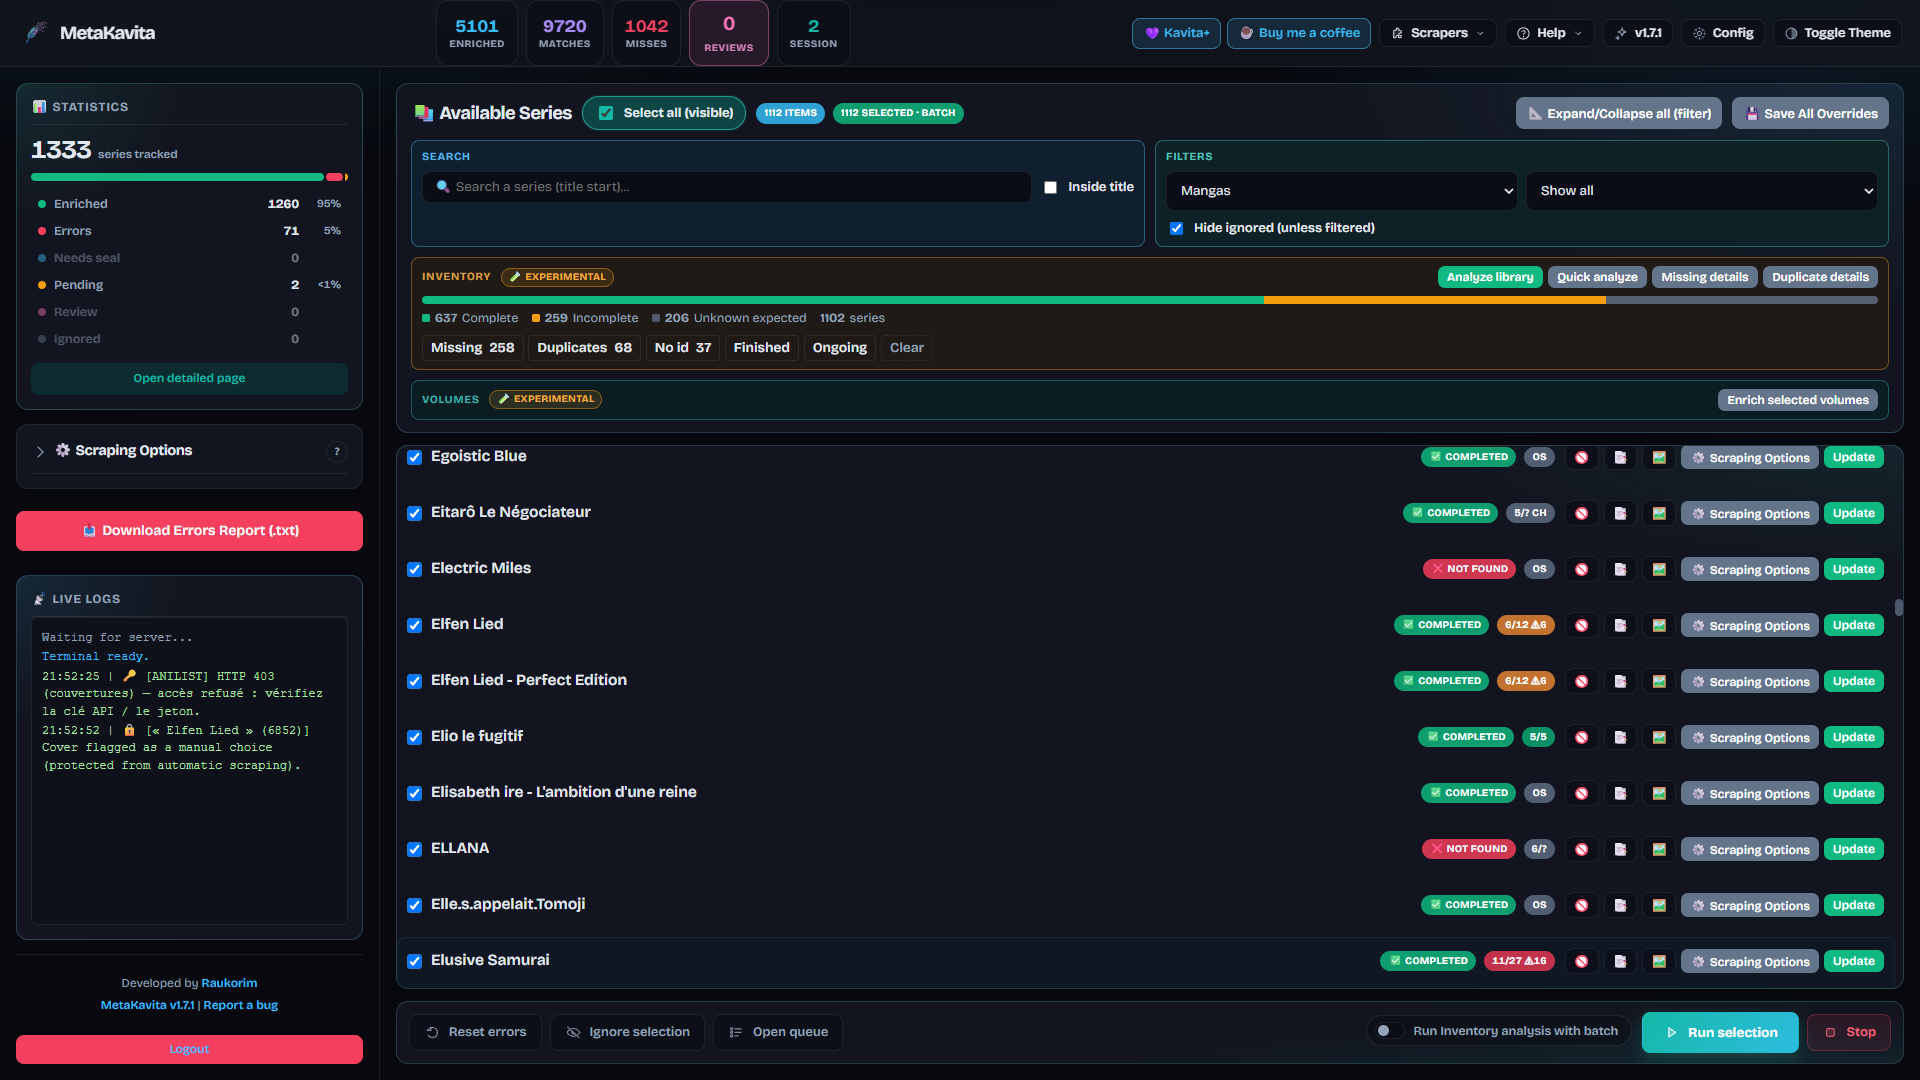
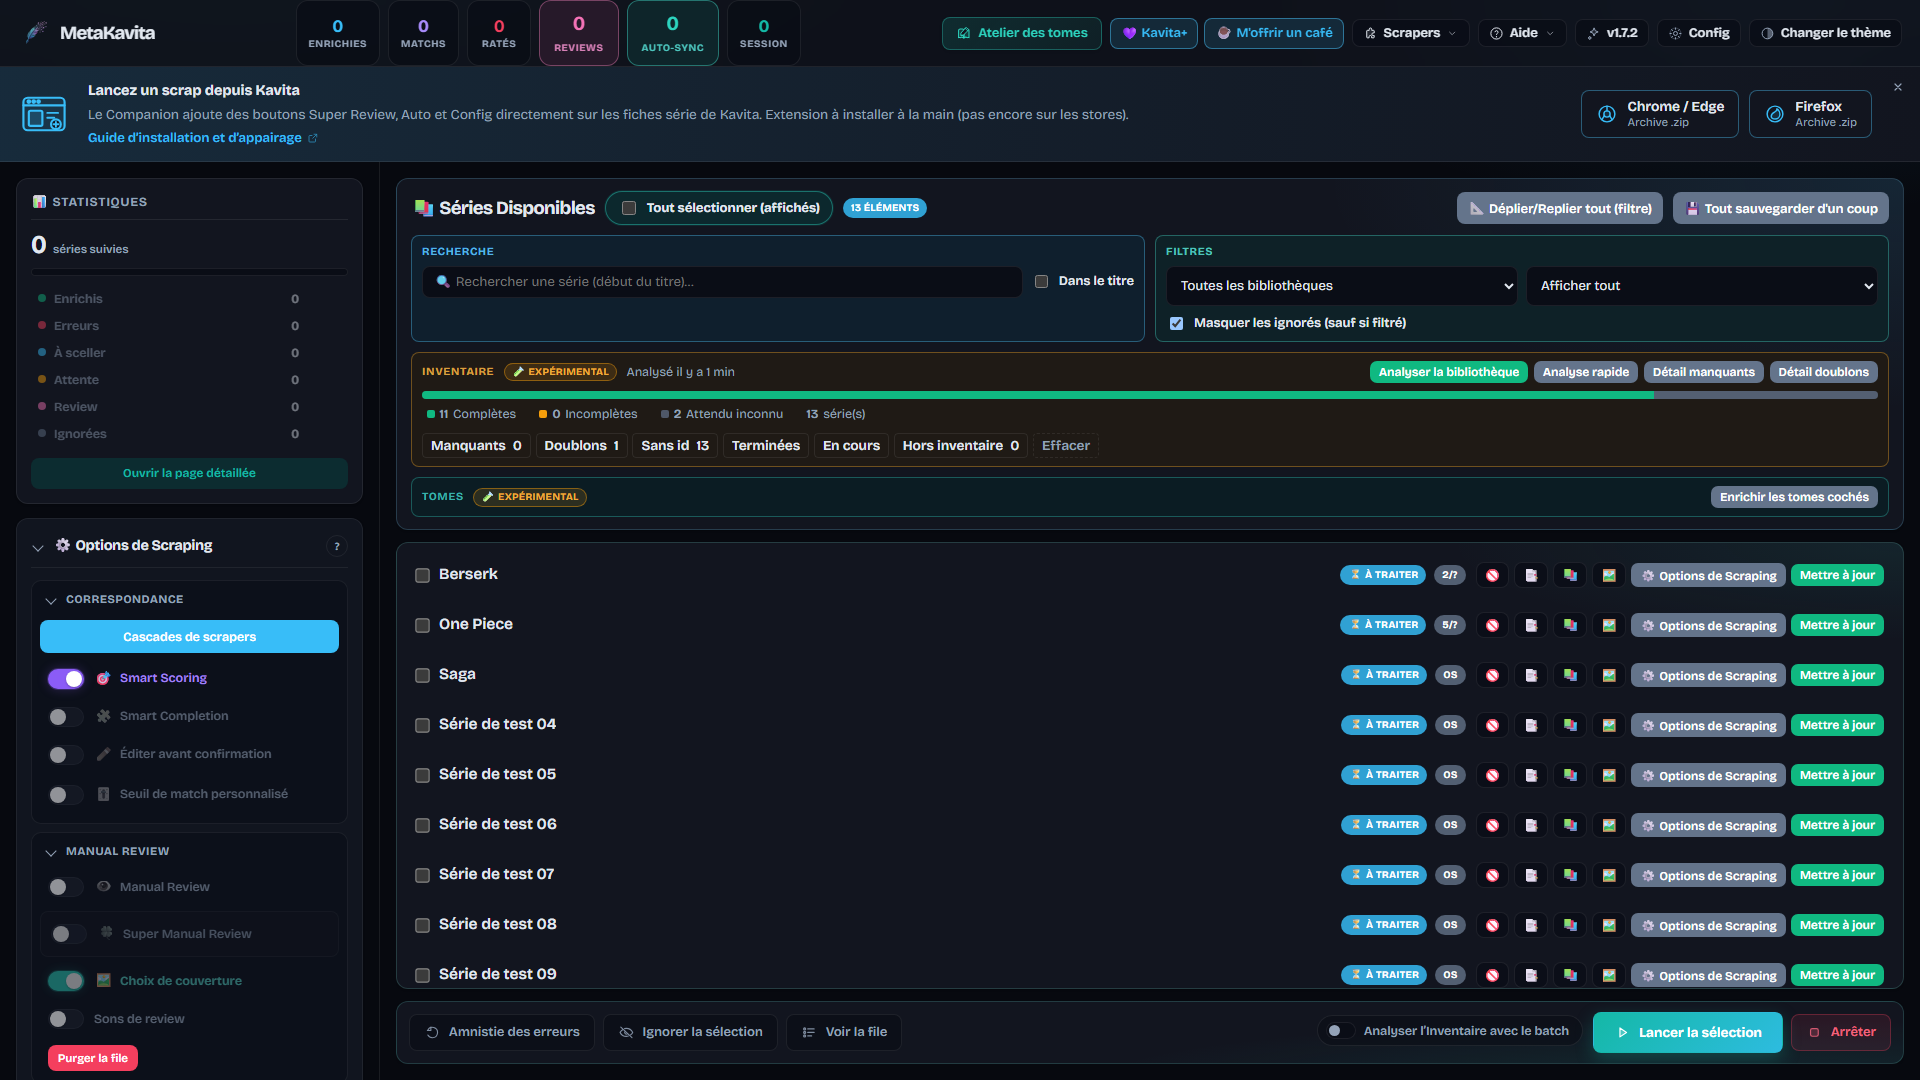
docs: captures d'écran 1.7.2 — Atelier, Inventaire, tableau de bord
Prises sur le banc dev_local/workshop_harness (vraie MetaKavita, faux
Kavita, sans authentification) avec Edge headless piloté par DevTools.

Nouvelles : docs-workshop.png (page entière, One Piece),
docs-workshop-volume.png (carte de tome), docs-workshop-covers.png
(galerie Choisir), docs-inventory-health.png (bandeau Inventaire).
Remplacées : docs-dashboard.png (1.7.1 -> 1.7.2, bouton Atelier à côté
de Kavita+, barre de santé remplie), docs-toolbar-inventory.png,
docs-duplicates-modal.png (seuil, 🎯, Bash/PowerShell, scan à la fin).

Câblées dans docs/fr et docs/en (volumes.md, inventory.md), légendes
traduites, parité du nombre d'images, aucune référence cassée.
docs-stats.png et docs-missing-details.png conservées : le banc n'a
ni historique ni manquant, les captures existantes sont meilleures.

diff --git a/docs/fr/volumes.md b/docs/fr/volumes.md
@@ -16,6 +16,12 @@ Trois surfaces, qui ne se marchent pas dessus :
 * **Accès Atelier sur le Dashboard** — **Atelier** est dans la barre supérieure sticky, à côté du bouton Kavita+, avec son icône dédiée et son thème sarcelle, pour ouvrir `/volumes` à tout moment (le rail ou la dernière série consultée charge la fiche sans sélection préalable requise). Passe automatique disponible sur les séries cochées, annulable. Honore les liens magiques déjà posés dans l'atelier. Pas de Champ Magique dans la barre.
 * **Atelier** `GET /volumes` ou `GET /series/<id>/volumes` — page autonome (comme `/stats`). À l'ouverture : Kavita + Meta, **aucun scrape**. Interface moderne, compacte et haute densité d'information (hauteur de la fiche série divisée par deux, cartes de tomes allégées de plus de moitié permettant d'afficher 2 à 3 tomes simultanément). Formulaires et champs modernisés sur le modèle élégant de la Revue Manuelle et de « Ajuster avant envoi » (fond ardoise sombre `#141926`, coins arrondis à 8px, padding aéré, libellés en casse naturelle, fin du liseré jaune criard remplacé par une teinte ambrée très douce). Carte série (sarcelle) ≠ cartes tomes (orange). **Duplication série → tomes** : chaque champ compatible de la série dispose d'un micro-bouton `Vers tomes` permettant en 1 clic de propager sa valeur (scénario, dessin, staff, genres, tags, classification, résumé, langue) à tous les tomes chargés, avec marquage automatique en dirty et sauvegarde SQLite debouncée. Un bouton global **Dupliquer vers les tomes** dans la fiche série cascade l'ensemble des métadonnées communes renseignées d'un coup. Les cartes de tomes s'équipent de puces de statut modernes qui lisent l'état réellement enregistré du tome — Brouillon, Envoyé, En attente, Échec, Rien à écrire, Aucune donnée — dans la langue de l'interface. Les champs courts (année, statut, âge, staff) se mettent à trois par ligne. Le staff en trop se range sous **Plus de champs (x complétés / y)** (le volet est mémorisé, avec compteur dynamique en direct). Le **Champ Magique** est un bandeau compact libellé, visible tout de suite (la touche Entrée lance directement la recherche). Le titre de série ouvre la fiche Kavita. La barre d'action sticky des tomes flotte élégamment en dark glassmorphism (compte de sélection, boutons groupés, envoi principal en dégradé orange). `/` pose le focus sur la recherche du rail ; ← → se grisent en bout de liste ; les fiches du rail sont compactées à 48 px (+15% de séries visibles). La barre de navigation supérieure intègre un bouton permanent **M'offrir un café** (☕) avec toast immédiat et cooldown supporter. L'overlay nagware supporter peut également apparaître rarement après des écritures réussies dans Kavita (variante `workshop_craft`, sous conditions strictes : lune de miel de 7 jours, seuil d'activité minimum de 10 éléments traités, maximum 1 à 2 fois par jour, pause honneur de 30 jours). Le journal live est à droite. Les jaquettes ont un relief de livre 2:3 valorisé et moderne (136×204 px pour la série, 104×156 px pour les tomes) et un bouton **Choisir** ; les couvertures de série et de tomes s'intègrent harmonieusement aux côtés des en-têtes et champs hauts, tandis que les métadonnées inférieures (résumé, plus de champs, actions) s'étendent en pleine largeur directement sous elles pour éliminer tout vide résiduel. L'URL choisie part à l'envoi, pas via `/update-cover`. Édition sur place avec persistance automatique en brouillon pour la série et les tomes (debounced 500 ms, identifiants externes et modifications préservés en SQLite `_staged: True`, étanche face aux passes concurrentes, survit au rechargement F5 et à la navigation). Manual Review / Super Review (fiche ou tome) permettent d'ajuster les métadonnées (collecte multi-fournisseurs interrogeant l'ensemble des scrapers actifs pour ISBN et titre avec pré-sélection, navigation clavier dédiée avec Échap/Entrée/Flèches/chiffres 1–9/double-clic et miniatures de jaquettes, conservation du fournisseur d'origine, fusion de sources ou complétion manuelle par champ, prise en compte de l'ISBN saisi) en passant par les étapes de revue (choix, couverture, prévisualisation/édition) avant de stager la fiche à la confirmation ; elles n'écrivent **pas** Kavita. **Envoyer** un tome / la fiche / la sélection / tous les tomes est ce qui écrit, purgeant automatiquement les jaquettes stagées en cas de succès pour éviter leur résurrection au rechargement et invalidant les caches d'hygiène. Chaque écriture réussie émet une ligne de confirmation dans le journal en direct (avec puce de série, statut vert ✅, numéro de tome et détail des champs écrits). L'envoi **écrase** les champs déjà remplis, verrous compris (une valeur vide, nom localisé compris, n'est jamais écrite). Un envoi qui ne trouve rien à changer solde tout de même la carte : le marquage modifié tombe et le brouillon est consommé, puisque Kavita détient déjà ce que la carte promettait. Seule exception, un refus de Kavita (titre alternatif en collision, jaquette repoussée) : le brouillon est conservé et le motif affiché, pour que vous puissiez corriger et renvoyer. Reset = Meta + relecture Kavita, **pas** de rewind des écritures déjà dans Kavita. Le Reset attend son tour si une passe de fond écrit justement cette série. Reset d'un tome débloque aussi la reprise de la passe automatique pour cette série. Le rail reprend la recherche, la bibliothèque, le statut et « masquer les ignorés » du tableau de bord. Un clic charge la série à côté, sans recharger la page. Les jaquettes déjà dans Kavita sont gardées sur disque.
 
+![L'Atelier — la fiche de série et les tomes de One Piece, le journal à droite](../../assets/docs-workshop.png)
+
+![Une carte de tome : Champ Magique, titre, ISBN, parution, résumé, et Plus de champs avec son compteur](../../assets/docs-workshop-volume.png)
+
+![Choisir une jaquette : les couvertures trouvées sur les différents sites](../../assets/docs-workshop-covers.png)
+
 ![Rapport de tomes](../../assets/docs-volume-report.png)
 
 Écrits : **titre d'album, résumé, date de parution, ISBN et couverture**, uniquement dans les champs vides sauf Force. Un champ rempli à la main, ou verrouillé dans Kavita, n'est pas touché.

diff --git a/docs/en/volumes.md b/docs/en/volumes.md
@@ -16,6 +16,12 @@ Three surfaces, kept apart:
 * **Workshop Access on Dashboard** — **Workshop** sits in the sticky topbar, next to the Kavita+ button, with its dedicated craft icon and teal theme, opening `/volumes` at any time (the rail or last-visited series loads the sheet without requiring a prior dashboard selection). Automatic pass available on ticked series, cancellable. Honours magic links already stored in the workshop. No Magic Input in the toolbar.
 * **Workshop** `GET /volumes` or `GET /series/<id>/volumes` — a standalone page (like `/stats`). On open: Kavita + Meta, **no scrape**. Modern, compact, high-density interface (series card height halved, volume cards slimmed by more than half, displaying 2 to 3 volume cards simultaneously without endless scrolling). Modernized form fields inspired by the sleek Manual Review and “Adjust before send” screens (modern dark slate `#141926` background, 8px rounded corners, generous padding, natural sentence-case labels, eliminating loud yellow borders in favor of a soft subtle tint). Series card (teal) ≠ volume cards (orange). **Series-to-volumes duplication**: every compatible series field features a 1-click `To volumes` micro-button cascading its value (writers, pencillers, staff, genres, tags, age rating, summary, language, links) across all loaded volume cards, automatically marking them dirty and scheduling SQLite draft persistence. A global **Duplicate to volumes** button in the series card actions cascades all filled common metadata at once. Volume cards gain modern status chips that read the volume's real recorded state — Draft, Sent, Pending, Failed, Nothing to write, No data — in your interface language. Short fields (year, status, age, staff) sit three to a row. Extra staff sit behind **More fields (x filled / y)** (the fold is remembered, with a real-time completion counter). **Magic Input** is a compact labelled bar, visible at a glance (pressing Enter triggers the search directly). The series title opens the Kavita sheet. The sticky volume action bar floats cleanly in dark glassmorphism (selected count, grouped buttons, gradient orange primary send). `/` focuses the rail search; ← → grey out at the ends of the list; rail items are compacted to 48 px (+15% vertical capacity). The top navigation bar includes a permanent **Buy me a coffee** button (☕) with instant feedback and supporter cooldown. The supporter nagware overlay can also appear rarely after successful writes to Kavita (`workshop_craft` variant, under strict safeguards: 7-day honeymoon, at least 10 items processed activity threshold, max 1–2 times per day, 30-day honor snooze). The live log sits on the right. Covers sit as a prominent 2:3 book (136×204 px series, 104×156 px volumes) with a **Pick** overlay button; series and volume covers integrate seamlessly beside headers and top fields while lower metadata (summary, more fields, actions) flows full-width beneath them to eliminate any dead space. The chosen URL is written on Send, not through `/update-cover`. Edit in place with automatic real-time draft persistence for both series and volume cards (debounced 500 ms, external IDs and changes preserved in SQLite `_staged: True`, safe from background pass overwrites, survives an F5 reload and rail navigation). Manual Review / Super Review (series or volume) allow adjusting metadata (multi-provider candidate gathering querying all active scrapers for ISBN and title with pre-selection, dedicated volume keyboard navigation with Escape/Enter/Arrows/digits 1–9/double-click and cover thumbnails, retaining source provider, source fusion, or per-field manual completion, honouring any typed ISBN) going through the proper review steps (pick, cover, preview/edit) before staging the sheet upon confirmation; they do **not** write Kavita. **Send** one volume / the sheet / the selection / every volume is what writes, automatically purging staged covers on success to prevent cover resurrection upon reload, and invalidating hygiene caches. Every successful write emits a real-time confirmation line in the live log console (with series pill, green ✅ status, volume number, and written fields summary). Send **overwrites** fields already filled, including locked ones (an empty value, including localized name, is never written). A send that finds nothing to change settles the card all the same: the modified flag drops and the draft is consumed, since Kavita already holds what the card promised. The one exception is a refusal from Kavita (a colliding localized name, a cover it turned down): the draft is kept and the reason is shown, so you can fix it and send again. Reset = Meta + reload Kavita, **not** a rewind of writes already in Kavita. Reset waits its turn if a background pass is writing that very series. Reset on one volume also unblocks that series for automatic library pass resumption. The rail reuses the dashboard search, library, status and hide-ignored filters. A click loads that series beside the list, without a page reload. Covers already in Kavita are kept on disk.
 
+![The Workshop — One Piece's series sheet and volumes, the live log on the right](../../assets/docs-workshop.png)
+
+![A volume card: Magic Input, title, ISBN, release date, summary, and More fields with its counter](../../assets/docs-workshop-volume.png)
+
+![Pick a cover: the covers found across the sites](../../assets/docs-workshop-covers.png)
+
 ![Volume report](../../assets/docs-volume-report.png)
 
 Written: **album title, summary, release date, ISBN and cover**, and only into empty fields unless Force. A field you filled by hand, or locked in Kavita, is left alone.

diff --git a/docs/fr/inventory.md b/docs/fr/inventory.md
@@ -10,7 +10,7 @@ Allumé par défaut (`LIBRARY_INVENTORY_ENABLED`). Lecture seule : n'écrit aucu
 
 Un panneau **Inventaire**, au-dessus de la liste, dit quelles séries sont incomplètes. **Analyser la bibliothèque** / **Analyse rapide** travaillent en arrière-plan : ils comptent les tomes (ou chapitres) dans Kavita, demandent à la cascade combien il devrait y en avoir, et regroupent les séries qui se ressemblent. **Détail des manquants** et **Détail des doublons** (ou le chip **Doublons**) ouvrent les listes.
 
-![Panneau Inventaire — barre de santé, Manquants / Doublons / Sans id](../../assets/docs-toolbar-inventory.png)
+![Panneau Inventaire — barre de santé, Manquants / Doublons / Sans id](../../assets/docs-inventory-health.png)
 
 Tu obtiens :
 

diff --git a/docs/en/inventory.md b/docs/en/inventory.md
@@ -10,7 +10,7 @@ On by default (`LIBRARY_INVENTORY_ENABLED`). Read-only: it never writes volume m
 
 An **Inventory** panel above the series list tells you which series are incomplete. **Analyze library** / **Quick analyze** run in the background: they count the volumes (or chapters) you own in Kavita, ask the provider cascade how many there should be, and cluster look-alike series. **Missing details** and **Duplicate details** (or the **Duplicates** chip) open the lists.
 
-![Inventory panel — health bar, Missing / Duplicates / No id](../../assets/docs-toolbar-inventory.png)
+![Inventory panel — health bar, Missing / Duplicates / No id](../../assets/docs-inventory-health.png)
 
 You get:
 
